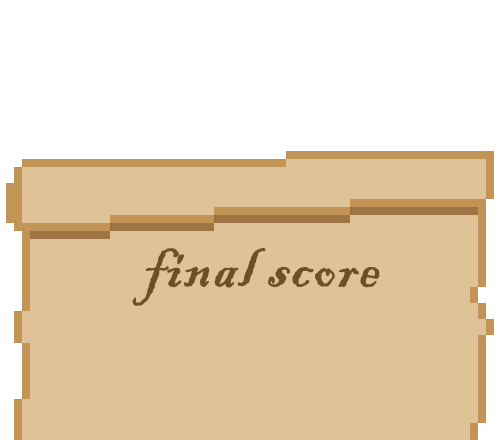
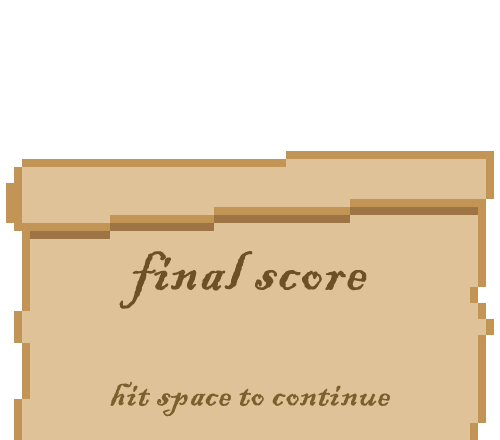
Scoring is now complete and pressing space can take you back to the main menu

Changed region(s): [[0.24, 0.5614, 0.78, 0.7091], [0.21, 0.8568, 0.78, 0.9455]]

diff --git a/src/com/benjih/ld28/game/Game.java b/src/com/benjih/ld28/game/Game.java
@@ -163,7 +163,7 @@ public class Game {
 					arrow.setX(300);
 					if (display.getTime()  >= start + 2000) {
 						play = false;
-						System.out.println("You hit the target!");
+						score = score + 5000;
 					}
 				}
 			}
@@ -179,7 +179,7 @@ public class Game {
 		
 		if (arrow.getArrowPointY() > target.getY() + 74 &&
 				arrow.getArrowPointY() < target.getY() + 74 + 74) {
-			System.out.println("That's a bullseye");
+			score = score + 10000;
 		}
 		
 		return score;
@@ -209,7 +209,12 @@ public class Game {
 			target.render();
 			arrow.render();
 			scoreScreen.render();
+			
 			font2.drawString(400, 450, Integer.toString(score), new Color(108, 81, 38));
+			
+			if (Keyboard.isKeyDown(Keyboard.KEY_SPACE)) {
+				play = false;
+			}
 			display.closeIfRequested();
 			
 			display.update();

diff --git a/src/com/benjih/ld28/game/Coin.java b/src/com/benjih/ld28/game/Coin.java
@@ -79,7 +79,7 @@ public class Coin implements GLObject, CollidableObject {
 	}
 	
 	public int getScore() {
-		return 10;
+		return 500;
 	}
 	
 	public void hide() {
